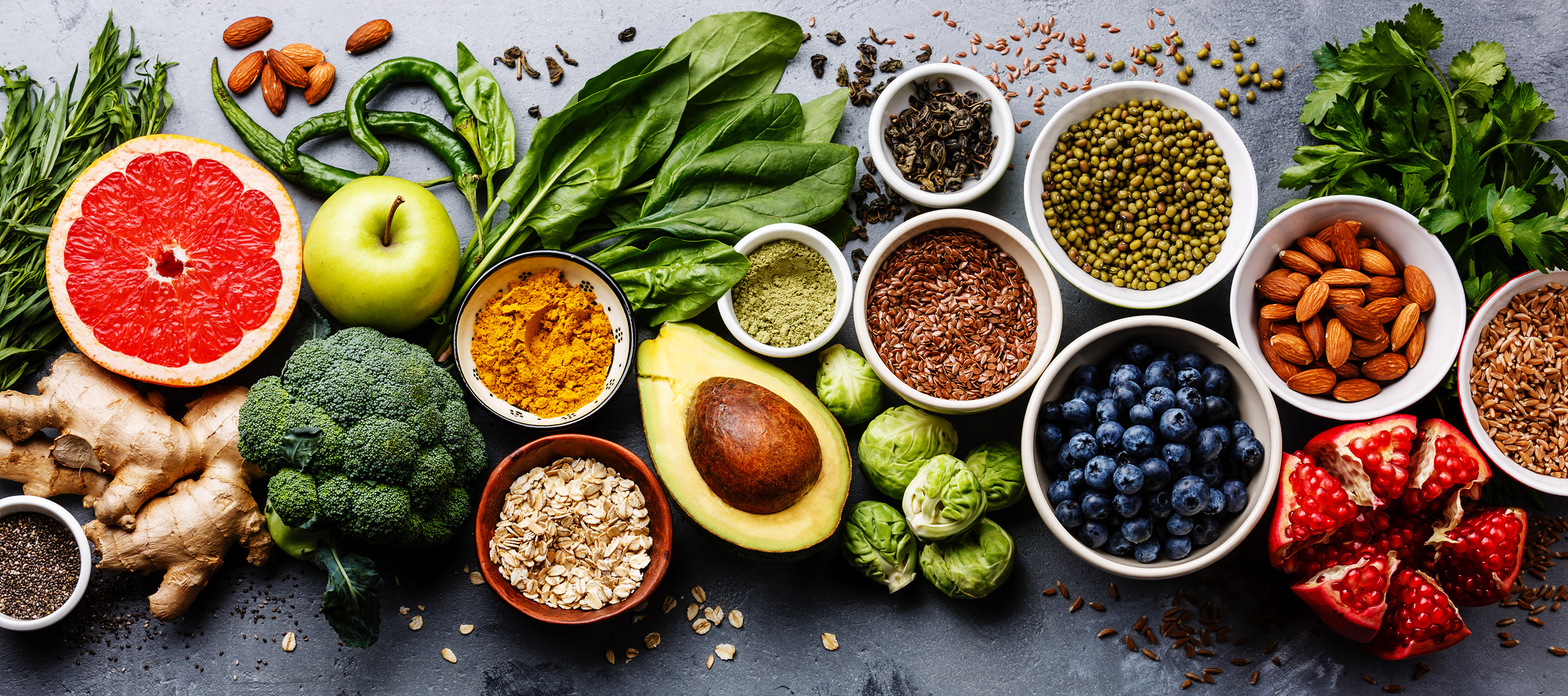
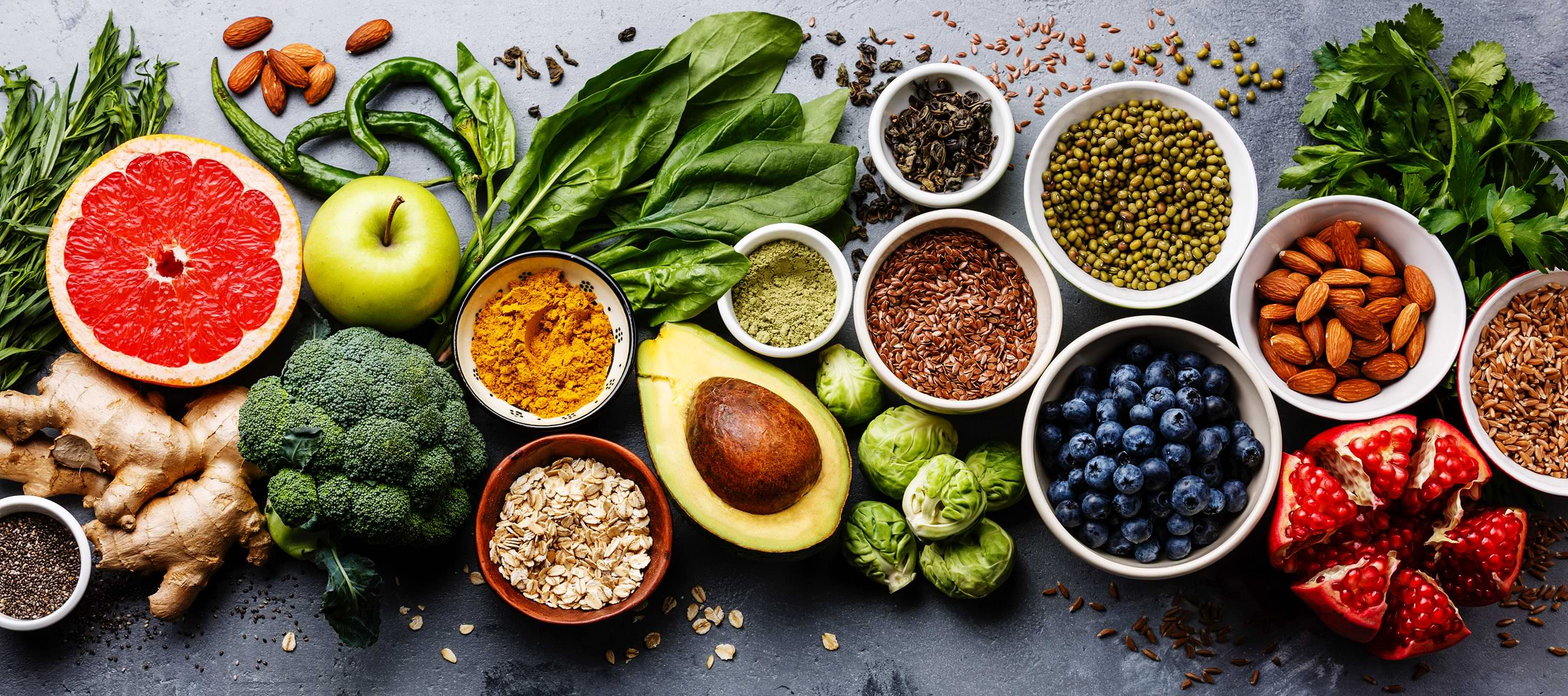
ui update

diff --git a/src/components/Card.js b/src/components/Card.js
@@ -1,8 +1,22 @@
 import React, { useState, useEffect } from 'react';
 import { BsChevronDoubleDown } from 'react-icons/bs';
 import { BsChevronDoubleUp } from 'react-icons/bs';
-import { BsLink45Deg } from 'react-icons/bs';
+import { VscLink } from 'react-icons/vsc';
+import { withStyles, makeStyles } from '@material-ui/core/styles';
+import Button from '@material-ui/core/Button';
+import Tooltip from '@material-ui/core/Tooltip';
+import Typography from '@material-ui/core/Typography';
 
+
+const LightTooltip = withStyles((theme) => ({
+    tooltip: {
+      backgroundColor: theme.palette.common.white,
+      color: 'rgba(0, 0, 0, 0.87)',
+      boxShadow: theme.shadows[1],
+      fontSize: 11,
+    },
+  }))(Tooltip);
+  
 
 const Card = ({
     label,
@@ -20,9 +34,16 @@ const Card = ({
             <img src={image} alt={label} />
             <br/>
             <div className='caret' onClick={() => { setShowIngr(!showIngr)}}> 
-            {!showIngr ? (<><div></div> <BsChevronDoubleDown /> </>): <BsChevronDoubleUp />} </div>
-            {showIngr && <ul className='ingr'>{ingredientLines}</ul>}
-            <a href={url} style={{fontSize:'2rem', color:'black'}}> <BsLink45Deg /></a>
+                {!showIngr 
+                ? <BsChevronDoubleDown /> 
+                : <> <BsChevronDoubleUp /> 
+                {showIngr && <ul className='ingr'>{ingredientLines}</ul>}
+                <a href={url} style={{fontSize:'2rem', color:'black'}}>           
+                    <LightTooltip title="See full recipe" placement="right">
+                    <Button><VscLink style={{color: 'red!important'}}/></Button>
+                   </LightTooltip></a> 
+                </>}    
+            </div>
         </div>
     )
 }

diff --git a/src/index.css b/src/index.css
@@ -101,13 +101,13 @@ p {
 }
 
  .label {
-  font-size: 1.2rem;
-  font-weight: 400;
-  margin-bottom: 1rem;
+  font-size: 1.5rem;
+  font-weight: 500;
+  margin-bottom: 1.5rem;
   margin-top: 1.5rem;
   text-align: center;
-  text-transform: uppercase;
-  color:rgb(12, 12, 12);
+  text-transform:capitalize;
+  color:rgb(0, 0, 0);
   text-decoration: none;
 }
 
@@ -200,8 +200,8 @@ footer.site-footer {
 }
 .ingr {
   padding-bottom: 2rem;
-  font-size: 1,5rem;
-  margin-top: -1rem;
+  font-size: 1.3rem;
+  margin: 1.5rem;
 }
 
 img {
@@ -224,11 +224,11 @@ img {
 .caret {
   font-size: 2rem;
   cursor: pointer;
+  margin-top: 1.5rem;
   margin-bottom: 3rem;
   display: flex;
   flex-direction: column;
   place-items: center;
-  z-index: 2;
 }
 .caret > div{
   font-size: 1rem;
@@ -404,4 +404,8 @@ div.loading  {
 ul.pagination-list {
   display: flex;
   justify-content: center;
+}
+
+button.MuiButtonBase-root.MuiButton-root.MuiButton-text {
+font-size: 2rem; 
 }

diff --git a/src/components/RecipeSearch.js b/src/components/RecipeSearch.js
@@ -54,7 +54,7 @@ const RecipeSearch = () => {
         : ''
     
     return ( 
-        <div className="container" style={data.count > 0 ? {background: 'rgb(226, 240, 245)'}:{backgroundImage: `url('food.jpeg')`}}>
+        <div className="container" style={data.count > 0 ? {background: 'rgb(226, 240, 245)'}:{backgroundImage: `url('food.jpg')`}}>
         <Form 
             handleSubmit={searchRecipe}
             handleChange={e => setQuery(e.target.value)}
